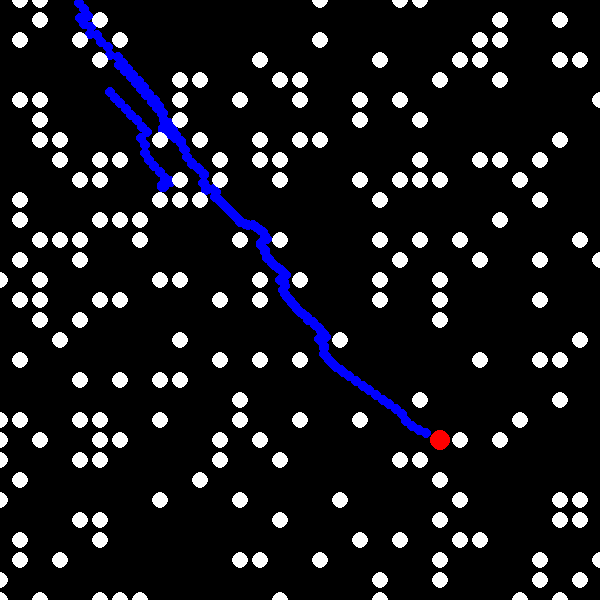
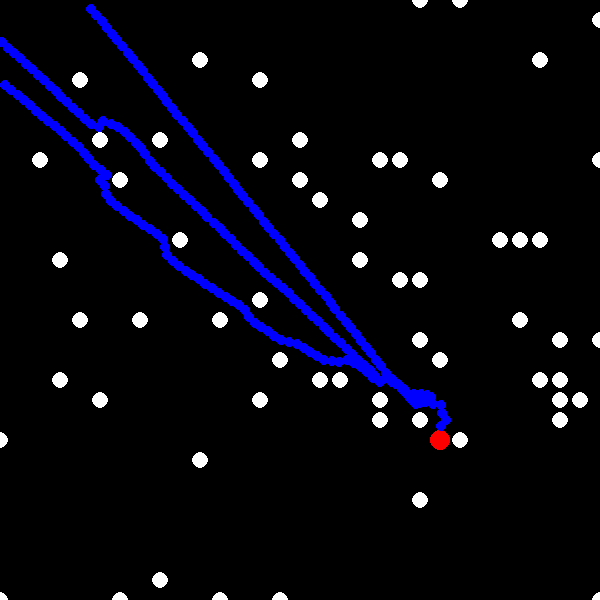
pray

diff --git a/Hyperparameter_tuner.py b/Hyperparameter_tuner.py
@@ -3,7 +3,7 @@ import Environment as e
 import Agent as a 
 import matplotlib.pyplot as plt
 import numpy as np
-from scipy.optimize import differential_evolution
+from scipy.stats import norm
 
 step_limit = 500
 safety_goal = 0.5 #Goals for smallest distance to target in a set of 100 succesful runs (meter)
@@ -46,7 +46,7 @@ def simulate():
         if agent.local_minimum:
             running = False 
 
-        #If time limit is reached, run failed 
+        #If step limit is reached, run failed 
         if len(agent.pos_lst) >= step_limit: 
             running = False
 
@@ -63,7 +63,7 @@ def simulate():
     else:
         return False
 
-num_samples = 1000 # Run the simulation multiple times to average out randomness
+num_samples = 300 # Run the simulation multiple times to average out randomness
 results = []
 while len(results) < num_samples:
     try:
@@ -76,3 +76,26 @@ min_result = min(results)
 avg_result = sum(results) / len(results)
 print("Minimum clearance: " + str(round(min_result, 3)))
 print("Average clearance: " + str(round(avg_result, 3)))
+
+# Plot the histogram of the data
+plt.hist(results, bins=50, density=True, alpha=0.6, color='blue', label='Data')
+
+# Fit a normal distribution to the data
+mu, std = norm.fit(results)
+
+# Generate the x values for the bell curve
+xmin, xmax = plt.xlim()
+x = np.linspace(xmin, xmax, 1000)
+p = norm.pdf(x, mu, std)
+
+# Plot the bell curve
+plt.plot(x, p, 'k', linewidth=2, label=f'Bell Curve\nμ={mu:.2f}, σ={std:.2f}')
+
+# Add labels and legend
+plt.title("Histogram with Bell Curve")
+plt.xlabel("Value")
+plt.ylabel("Density")
+plt.legend()
+
+# Show the plot
+plt.show()

diff --git a/main.py b/main.py
@@ -9,14 +9,14 @@ import os
 
 #---------Change setup settings if not standard settings----------
 
-algorithm = 0
+algorithm = 1
 setup = Setup(algorithm)
 setup.alpha_t = 10000 * 1
 setup.mu_t = 1 * 0.0017
 setup.alpha_o = 1 * 430
 setup.mu_o = 1000 * 0.0036 
-setup.obst_N_lower = 60 #influenced by values in paper 
-setup.obst_N_upper = 80
+setup.obst_N_lower = 100 #influenced by values in paper 
+setup.obst_N_upper = 200
 
 setup.nr_agents = 3
 setup.visual = True 
